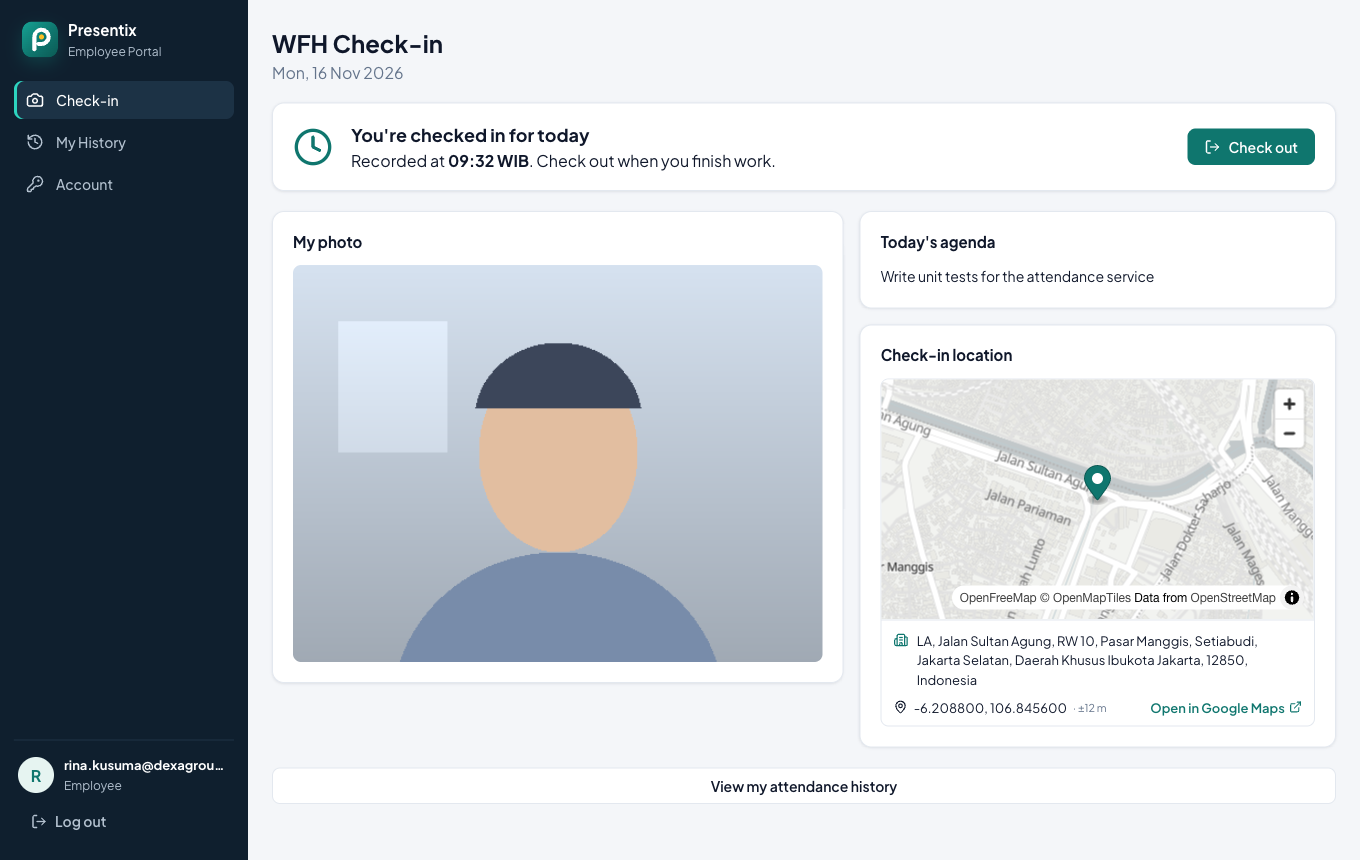
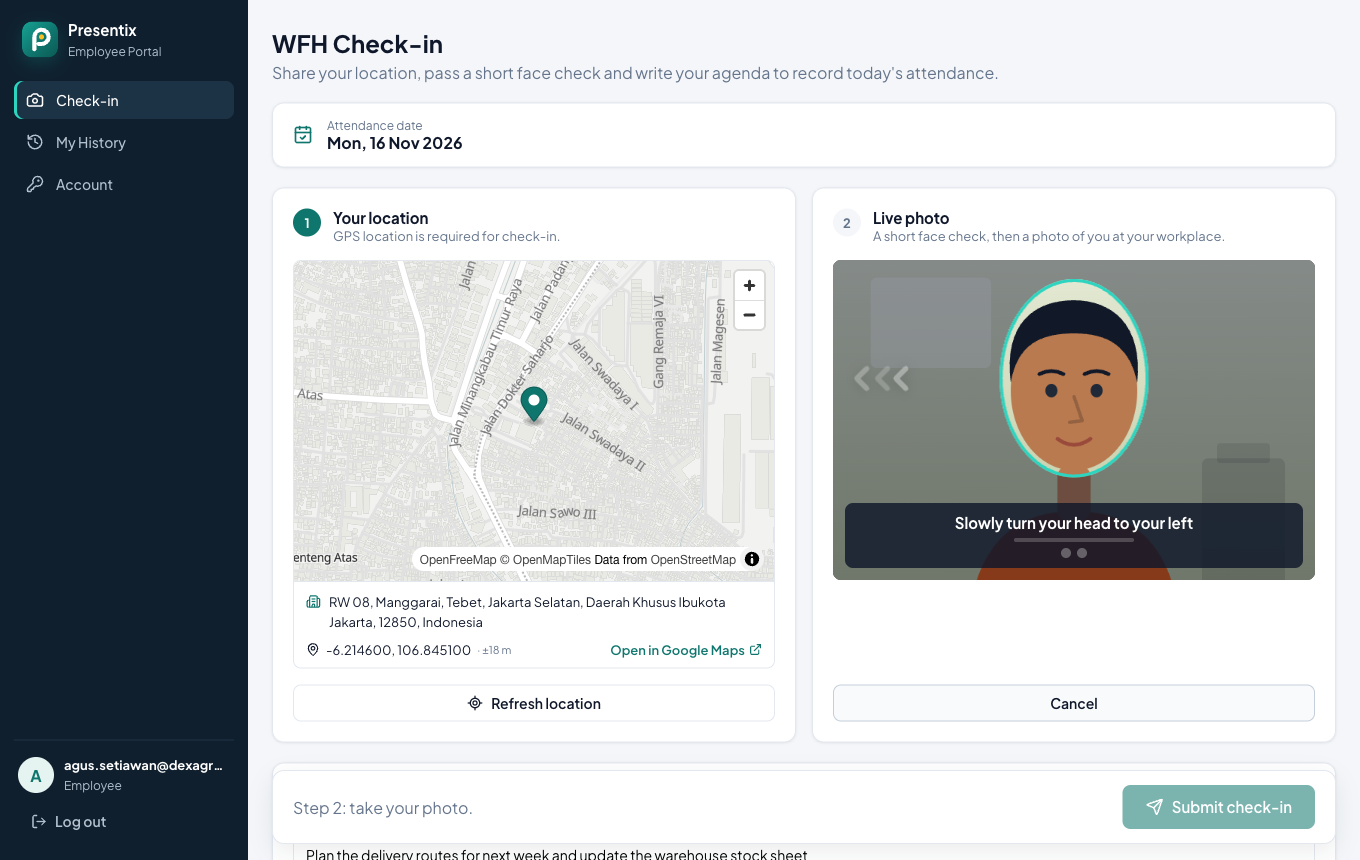
docs: cover face check, photo requests and CSV export in the README

diff --git a/README.md b/README.md
@@ -5,8 +5,8 @@
 <h1 align="center">Presentix</h1>
 
 <p align="center">
-  Work-from-home attendance: employees check in and out with a live photo and GPS location,<br>
-  HRD manages employees and monitors attendance.
+  Work-from-home attendance: employees check in and out with a face check, a live photo and GPS location,<br>
+  HRD manages employees, approves profile photos and monitors attendance.
 </p>
 
 <p align="center">
@@ -18,7 +18,7 @@
   <img src="https://img.shields.io/badge/OpenAPI-Swagger-85EA2D?logo=swagger&logoColor=black" alt="Swagger">
 </p>
 
-The name comes from **presence**: every check-in proves an employee is present, with a live photo and their location.
+The name comes from **presence**: every check-in proves an employee is present, with a short face check, a live photo and their location.
 
 ## Contents
 
@@ -35,18 +35,20 @@ The name comes from **presence**: every check-in proves an employee is present, 
 
 | | |
 | --- | --- |
-| <img src="docs/screenshots/employee-check-in.png" alt="Employee check-in"> | **Check in and check out.** GPS location, a live camera photo and today's agenda. The server sets the time (WIB), one check-in per day. Check out at the end of the day to record work hours. |
-| <img src="docs/screenshots/hrd-attendance.png" alt="HRD attendance list"> | **HRD monitoring.** Search, filter by department and date, check-in / check-out times, pagination, and a team calendar. |
-| <img src="docs/screenshots/hrd-attendance-detail.png" alt="Attendance detail"> | **Proof per check-in.** Photo, agenda, map with street address, work duration and how the photo was taken. |
-| <img src="docs/screenshots/hrd-employees.png" alt="Employee management"> | **Employee management.** Add, edit, deactivate, reactivate and delete. The employee code and work email are filled in automatically. |
-| <img src="docs/screenshots/account.png" alt="Account page"> | **Secure sessions.** Short-lived access token in memory, rotating refresh token in an httpOnly cookie, server-side logout and change password. |
+| <img src="docs/screenshots/employee-check-in.png" alt="Employee check-in with face check"> | **Check in with a face check.** GPS location, a head turn left / right in a random order from the server, then a live camera photo and today's agenda. The server sets the time (WIB), one check-in per day. Check out at the end of the day to record work hours. |
+| <img src="docs/screenshots/hrd-attendance-detail.png" alt="Attendance detail"> | **Proof per check-in.** The profile photo next to the check-in photo and both head-turn photos, plus agenda, map with street address and work duration. |
+| <img src="docs/screenshots/hrd-attendance.png" alt="HRD attendance list"> | **HRD monitoring.** Search, filter by department and date, check-in / check-out times, "Face check" badge, pagination, a team calendar and **Export CSV** per month. |
+| <img src="docs/screenshots/hrd-employees.png" alt="Employee management"> | **Employee management.** Add, edit, deactivate, reactivate and delete. The employee code and work email are filled in automatically. New profile photos from employees wait here for **Approve / Reject**. |
+| <img src="docs/screenshots/account.png" alt="Account page"> | **Account and secure sessions.** Employees send a new profile photo for HRD approval. Short-lived access token in memory, rotating refresh token in an httpOnly cookie, server-side logout and change password. |
 
 ## Tech stack
 
-- **Frontend:** React + TypeScript + Vite, React Router, MapLibre GL JS, lucide icons (`apps/web`)
+- **Frontend:** React + TypeScript + Vite, React Router, MapLibre GL JS,
+  MediaPipe Face Landmarker (face check, runs in the browser), lucide icons (`apps/web`)
 - **Backend:** 2 NestJS services (TypeScript)
-  - `apps/employee-service` – login, refresh token, logout, change password, employee master data
-  - `apps/attendance-service` – check-in (photo + GPS), check-out, attendance history
+  - `apps/employee-service` – login, refresh token, logout, change password, employee master data,
+    profile photos and photo requests
+  - `apps/attendance-service` – face check challenge, check-in (photo + GPS), check-out, attendance history
 - **Database:** MySQL 8.4 (Docker), TypeORM migrations
 - **Password hashing:** Argon2id
 - **API docs:** Swagger (OpenAPI) on both services
@@ -171,7 +173,6 @@ npm run check:login
 - Attendance history, with a detail page for each check-in (photo, agenda, map)
 - Monthly calendar: checked-in days are green, missed work days red,
   weekends grey (see "Attendance calendar" below)
-
 - **Profile photo** on the Account page. The employee can send a new photo,
   but it only replaces the current one after HRD approves it. Until then it
   shows "Waiting for HR", and the employee can cancel it or send another one.
@@ -179,6 +180,7 @@ npm run check:login
 
 **Everyone**
 - **Account** page to change the password (current password required).
+  Employees also see their profile photo there
   Other devices where the user is logged in are logged out
 - Logging out also ends the session on the server
 
@@ -220,16 +222,16 @@ npm run check:login
 | URL                       | Who      | Page                               |
 | ------------------------- | -------- | ---------------------------------- |
 | `/login`                  | everyone | Sign in                            |
-| `/check-in`               | Employee | Today's check-in                   |
+| `/check-in`               | Employee | Today's check-in (face check)      |
 | `/history`                | Employee | My attendance history              |
 | `/history/:id`            | Employee | My check-in detail (photo + map)   |
 | `/hrd`                    | HRD      | Overview                           |
-| `/hrd/employees`          | HRD      | Employee list                      |
+| `/hrd/employees`          | HRD      | Employee list + photo requests     |
 | `/hrd/employees/new`      | HRD      | Add employee                       |
-| `/hrd/employees/:id/edit` | HRD      | Edit employee                      |
-| `/hrd/attendance`         | HRD      | Attendance list with filters       |
-| `/hrd/attendance/:id`     | HRD      | Attendance detail (photo + map)    |
-| `/account`                | everyone | Change password                    |
+| `/hrd/employees/:id/edit` | HRD      | Edit employee + profile photo      |
+| `/hrd/attendance`         | HRD      | Attendance list, filters, CSV export |
+| `/hrd/attendance/:id`     | HRD      | Attendance detail (photo comparison + map) |
+| `/account`                | everyone | Change password, profile photo (employee) |
 
 ### Login session
 
@@ -343,6 +345,9 @@ account. It is meant for accounts created by mistake, so it is only allowed when
    attendance-service (`GET /attendances?employeeId=<id>`, with the HRD's
    token). If attendance-service cannot be reached, nothing is deleted.
 
+The employee's profile photo and any photo waiting for approval are deleted
+from disk too.
+
 ## API
 
 Interactive API docs (Swagger UI), where you can also try the endpoints:
@@ -373,6 +378,8 @@ or `503` when the database cannot be reached.
 | GET    | `/employees/:id` | HRD  | Employee detail                |
 | POST   | `/employees`     | HRD  | Create employee + login account |
 | PATCH  | `/employees/:id` | HRD  | Update / reactivate employee   |
+| DELETE | `/employees/:id` | HRD  | Deactivate employee            |
+| DELETE | `/employees/:id/permanent` | HRD | Delete employee for good (see above) |
 | PUT    | `/employees/:id/photo` | HRD | Upload / replace profile photo (multipart `photo`, JPEG/PNG, max 5 MB) |
 | GET    | `/employees/:id/photo` | HRD | Profile photo                  |
 | GET    | `/employees/photo-requests` | HRD | Employees with a new photo waiting for approval |
@@ -388,8 +395,6 @@ or `503` when the database cannot be reached.
 `submittedAt` is the `photoRequestAt` value HRD looked at. If the employee
 sent a newer photo in the meantime, approve/reject answers `409` and HRD
 reviews the new one, so HRD never approves a photo they have not seen.
-| DELETE | `/employees/:id` | HRD  | Deactivate employee            |
-| DELETE | `/employees/:id/permanent` | HRD | Delete employee for good (see above) |
 
 ### attendance-service (:3001)
 
@@ -448,7 +453,7 @@ the database.
 ```bash
 npm run build      # build all apps
 npm run lint       # lint all apps
-npm test           # unit tests (backend: login, refresh tokens, change password, employee codes, delete rules, profile photo, check-in / check-out, face check)
+npm test           # unit tests (backend: login, refresh tokens, change password, employee codes, delete rules, profile photo + photo requests, check-in / check-out, face check)
 npm run db:down    # stop MySQL (data is kept in the Docker volume)
 ```
 
@@ -498,6 +503,20 @@ Defaults work for local development. These environment variables can override th
 - Each service uses its own DB user that only has access to its own database.
 - Uploaded photos are checked by their file signature (not only the extension),
   saved with a random file name, and can only be viewed with a valid token.
+- Face check: the server picks the head-turn order and gives a one-time
+  `challengeId` that belongs to one employee and is only valid for 10 minutes
+  (and not sooner than 1.5 seconds). A camera check-in without a valid
+  challenge and two different head-turn photos is rejected.
+- Profile photos: only HRD can set a photo directly. A photo from the
+  employee is saved as "pending" and only replaces the current one when HRD
+  approves it. Approve / reject must name the request time HRD saw
+  (`submittedAt`), otherwise `409`, so a photo swapped at the last moment is
+  never approved by accident.
+- The `/me/...` endpoints take the employee id from the token, never from the
+  URL, so an employee can only see and change their own data.
+- CSV export: text cells that start with `=`, `+`, `-`, `@`, tab or carriage
+  return get a `'` in front, so Excel does not run them as formulas
+  (CSV / formula injection).
 
 ## Design decisions
 
@@ -514,6 +533,18 @@ Defaults work for local development. These environment variables can override th
   Permanent delete exists only for accounts without attendance.
 - **Photos on disk, not in the database**, with random file names. They can
   only be loaded through the API with a valid token.
+- **Face check in the browser, challenge from the server.** Running MediaPipe
+  in the browser needs no GPU server and no paid API, and the frames never
+  leave the device except the three photos. The server still decides the
+  order and checks the one-time challenge, so a replayed or old upload fails.
+- **HRD compares faces by eye instead of automatic face matching.** Automatic
+  matching needs a recognition model or a paid API, has false matches, and
+  face templates are biometric data under UU 27/2022. Showing the profile
+  photo next to the check-in photos gives HRD what they need without that.
+- **Photo changes need HRD approval**, so an employee cannot put a friend's
+  face on their account and let the friend check in for them.
+- **CSV export in the browser** from the same API the list uses, so there is
+  no extra export endpoint to secure.
 
 ## Known limitations and next steps
 
@@ -539,8 +570,8 @@ The data in these screenshots is demo data, and the photos are placeholders.
 
 | | |
 | --- | --- |
-| ![Login](docs/screenshots/login.png) Login | ![Employee check-in](docs/screenshots/employee-check-in.png) Employee: today's check-in |
-| ![Employee history](docs/screenshots/employee-history.png) Employee: attendance calendar | ![HRD overview](docs/screenshots/hrd-overview.png) HRD: overview |
-| ![HRD employees](docs/screenshots/hrd-employees.png) HRD: employees | ![HRD attendance](docs/screenshots/hrd-attendance.png) HRD: attendance list |
-| ![HRD calendar](docs/screenshots/hrd-calendar.png) HRD: team calendar | ![Attendance detail](docs/screenshots/hrd-attendance-detail.png) HRD: attendance detail |
-| ![Account](docs/screenshots/account.png) Account: change password | ![Swagger](docs/screenshots/swagger.png) API docs (Swagger) |
+| ![Login](docs/screenshots/login.png) Login | ![Employee check-in](docs/screenshots/employee-check-in.png) Employee: face check during check-in |
+| ![Employee history](docs/screenshots/employee-history.png) Employee: attendance calendar | ![HRD overview](docs/screenshots/hrd-overview.png) HRD: overview with photo request banner |
+| ![HRD employees](docs/screenshots/hrd-employees.png) HRD: employees + photo requests | ![HRD attendance](docs/screenshots/hrd-attendance.png) HRD: attendance list + Export CSV |
+| ![HRD calendar](docs/screenshots/hrd-calendar.png) HRD: team calendar | ![Attendance detail](docs/screenshots/hrd-attendance-detail.png) HRD: attendance detail with photo comparison |
+| ![Account](docs/screenshots/account.png) Account: profile photo request + password | ![Swagger](docs/screenshots/swagger.png) API docs (Swagger) |
